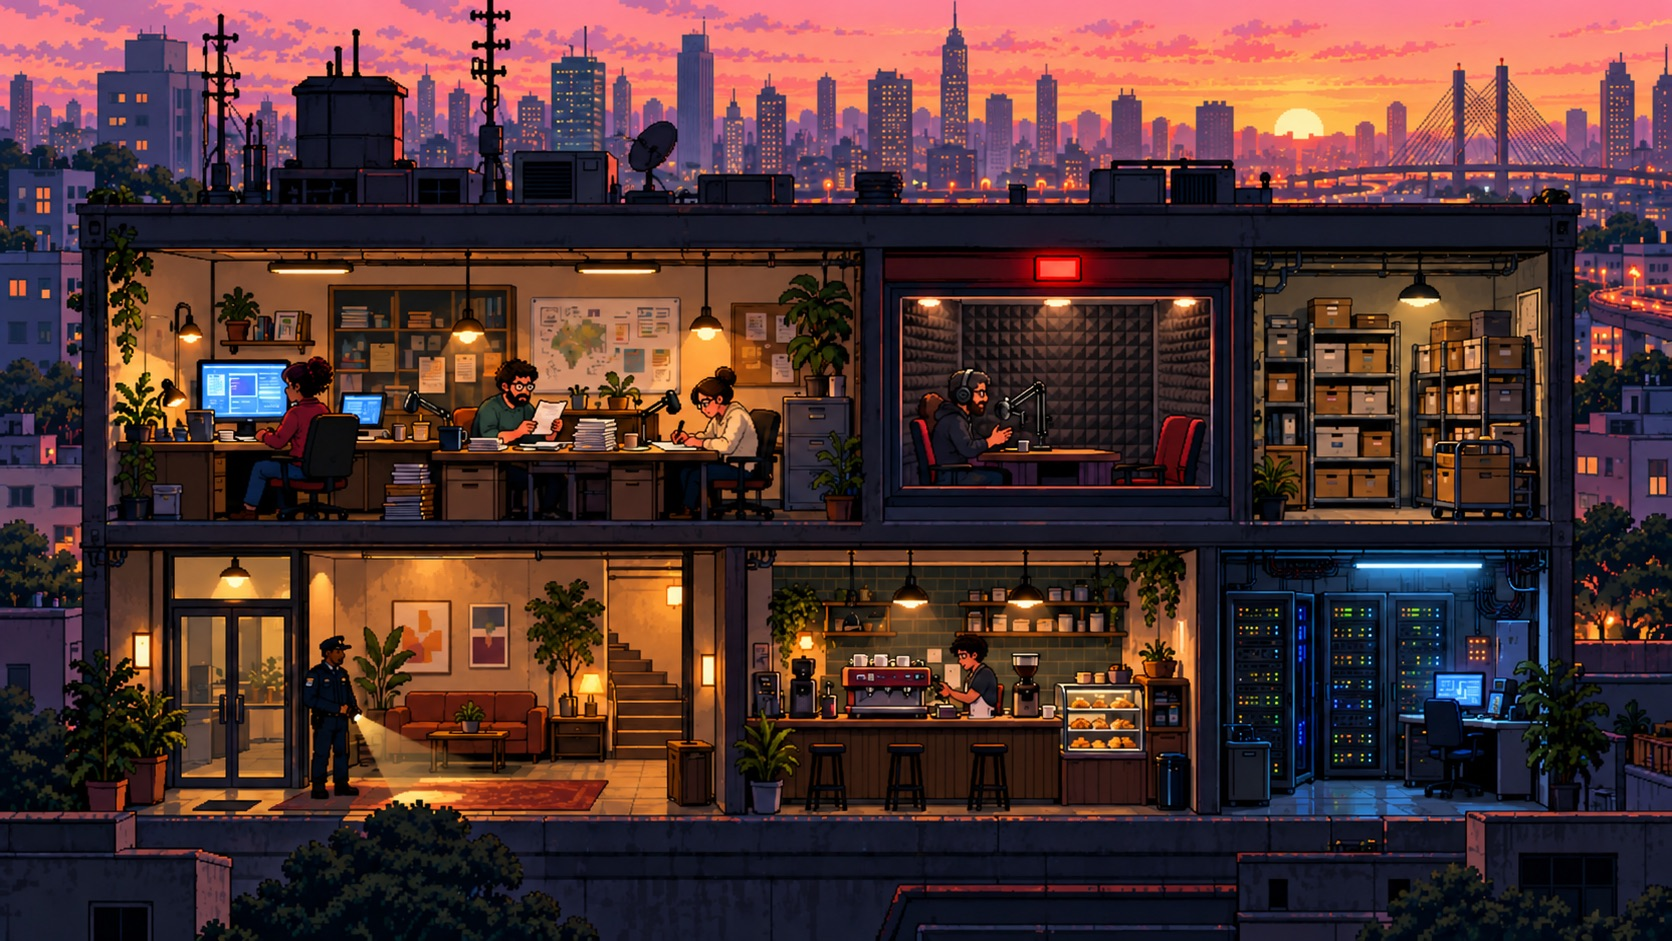
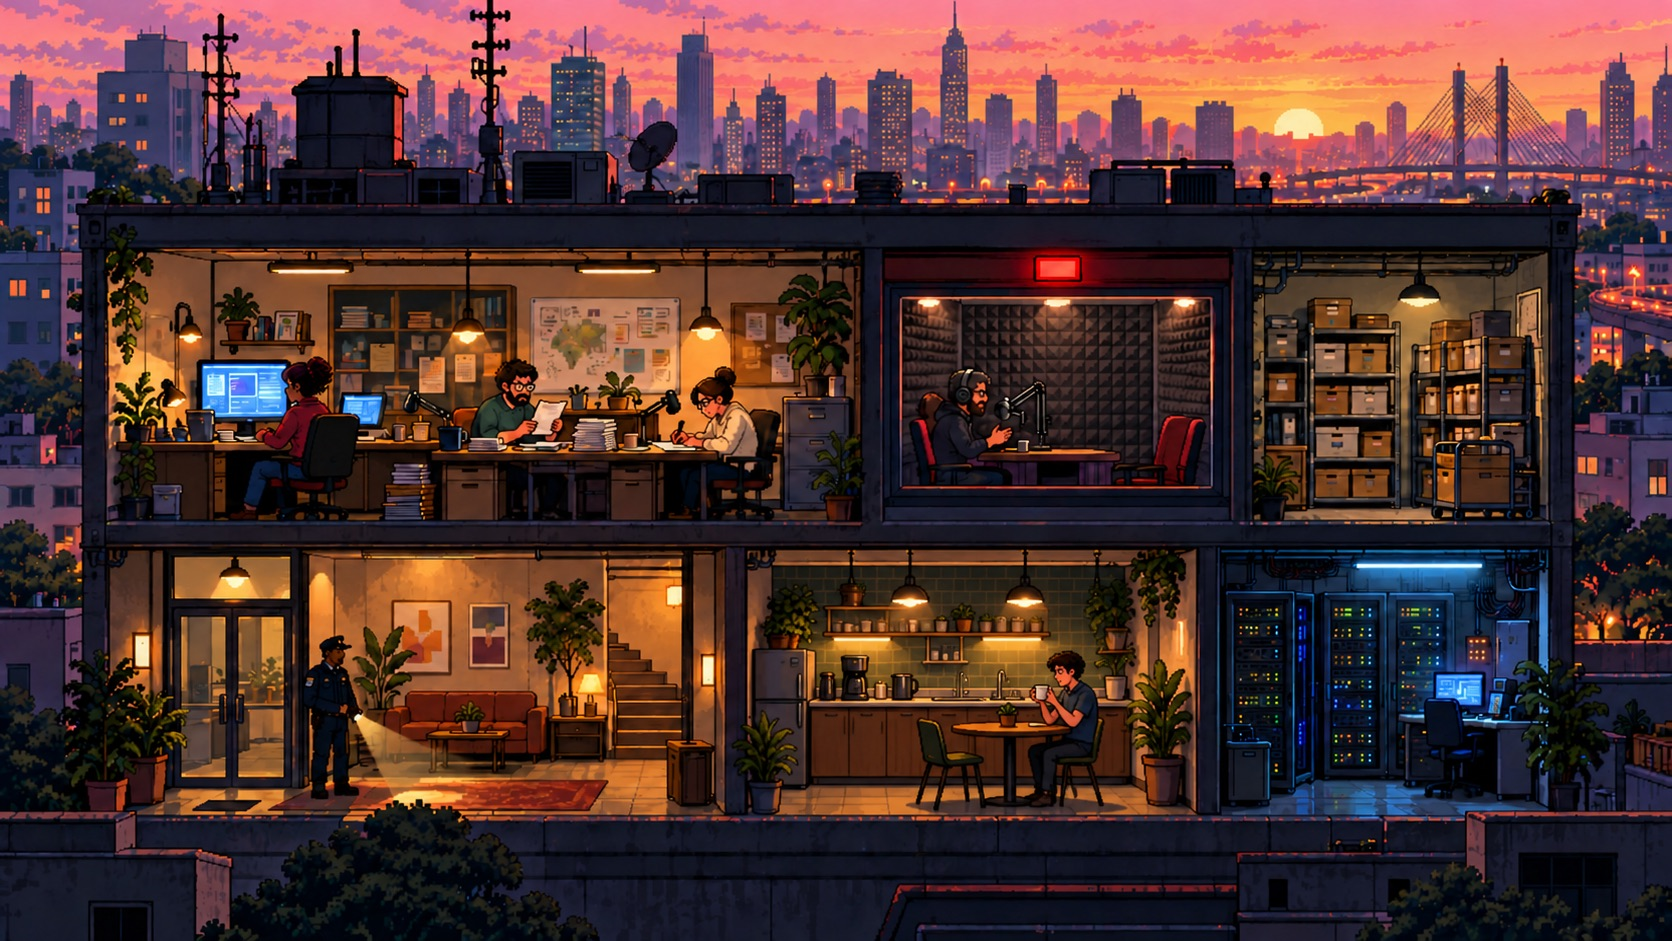
Ilustração da capa com uma copa de equipe no lugar da cafeteria de balcão
Com barista, vitrine de doces e caixa, o café da ilustração parecia um
comércio no térreo, não o lugar onde a equipe do estúdio para entre uma
gravação e outra. A versão nova tem geladeira, cafeteira e mesa redonda,
como o café da cena do estúdio. As três versões do site e a do README
saem do novo original, que fica fora do git.

diff --git a/docs/site.md b/docs/site.md
@@ -43,7 +43,8 @@ As páginas usam caminhos absolutos, e as fontes vêm de `/fontes/`. A capa e
 as páginas de texto são escuras, com o verde do `>CC`; o estúdio segue o tema
 de quem visita. A imagem da capa foi gerada no GPT Image a partir da cena do estúdio
 (escolhida em 01/11 entre sete, refeita com um narrador só, porque o
-programa tem uma voz). O original fica em `privado/capa/`; o site serve
+programa tem uma voz, e com uma copa de equipe no lugar de uma cafeteria
+de balcão, que parecia comércio). O original fica em `privado/capa/`; o site serve
 JPEG em 1672 e 960 px, mais a prévia de 1200×630, e o README usa a de 1672.
 
 A ordem da capa, revista em 01/11: abertura com a ilustração; **Fale com o
